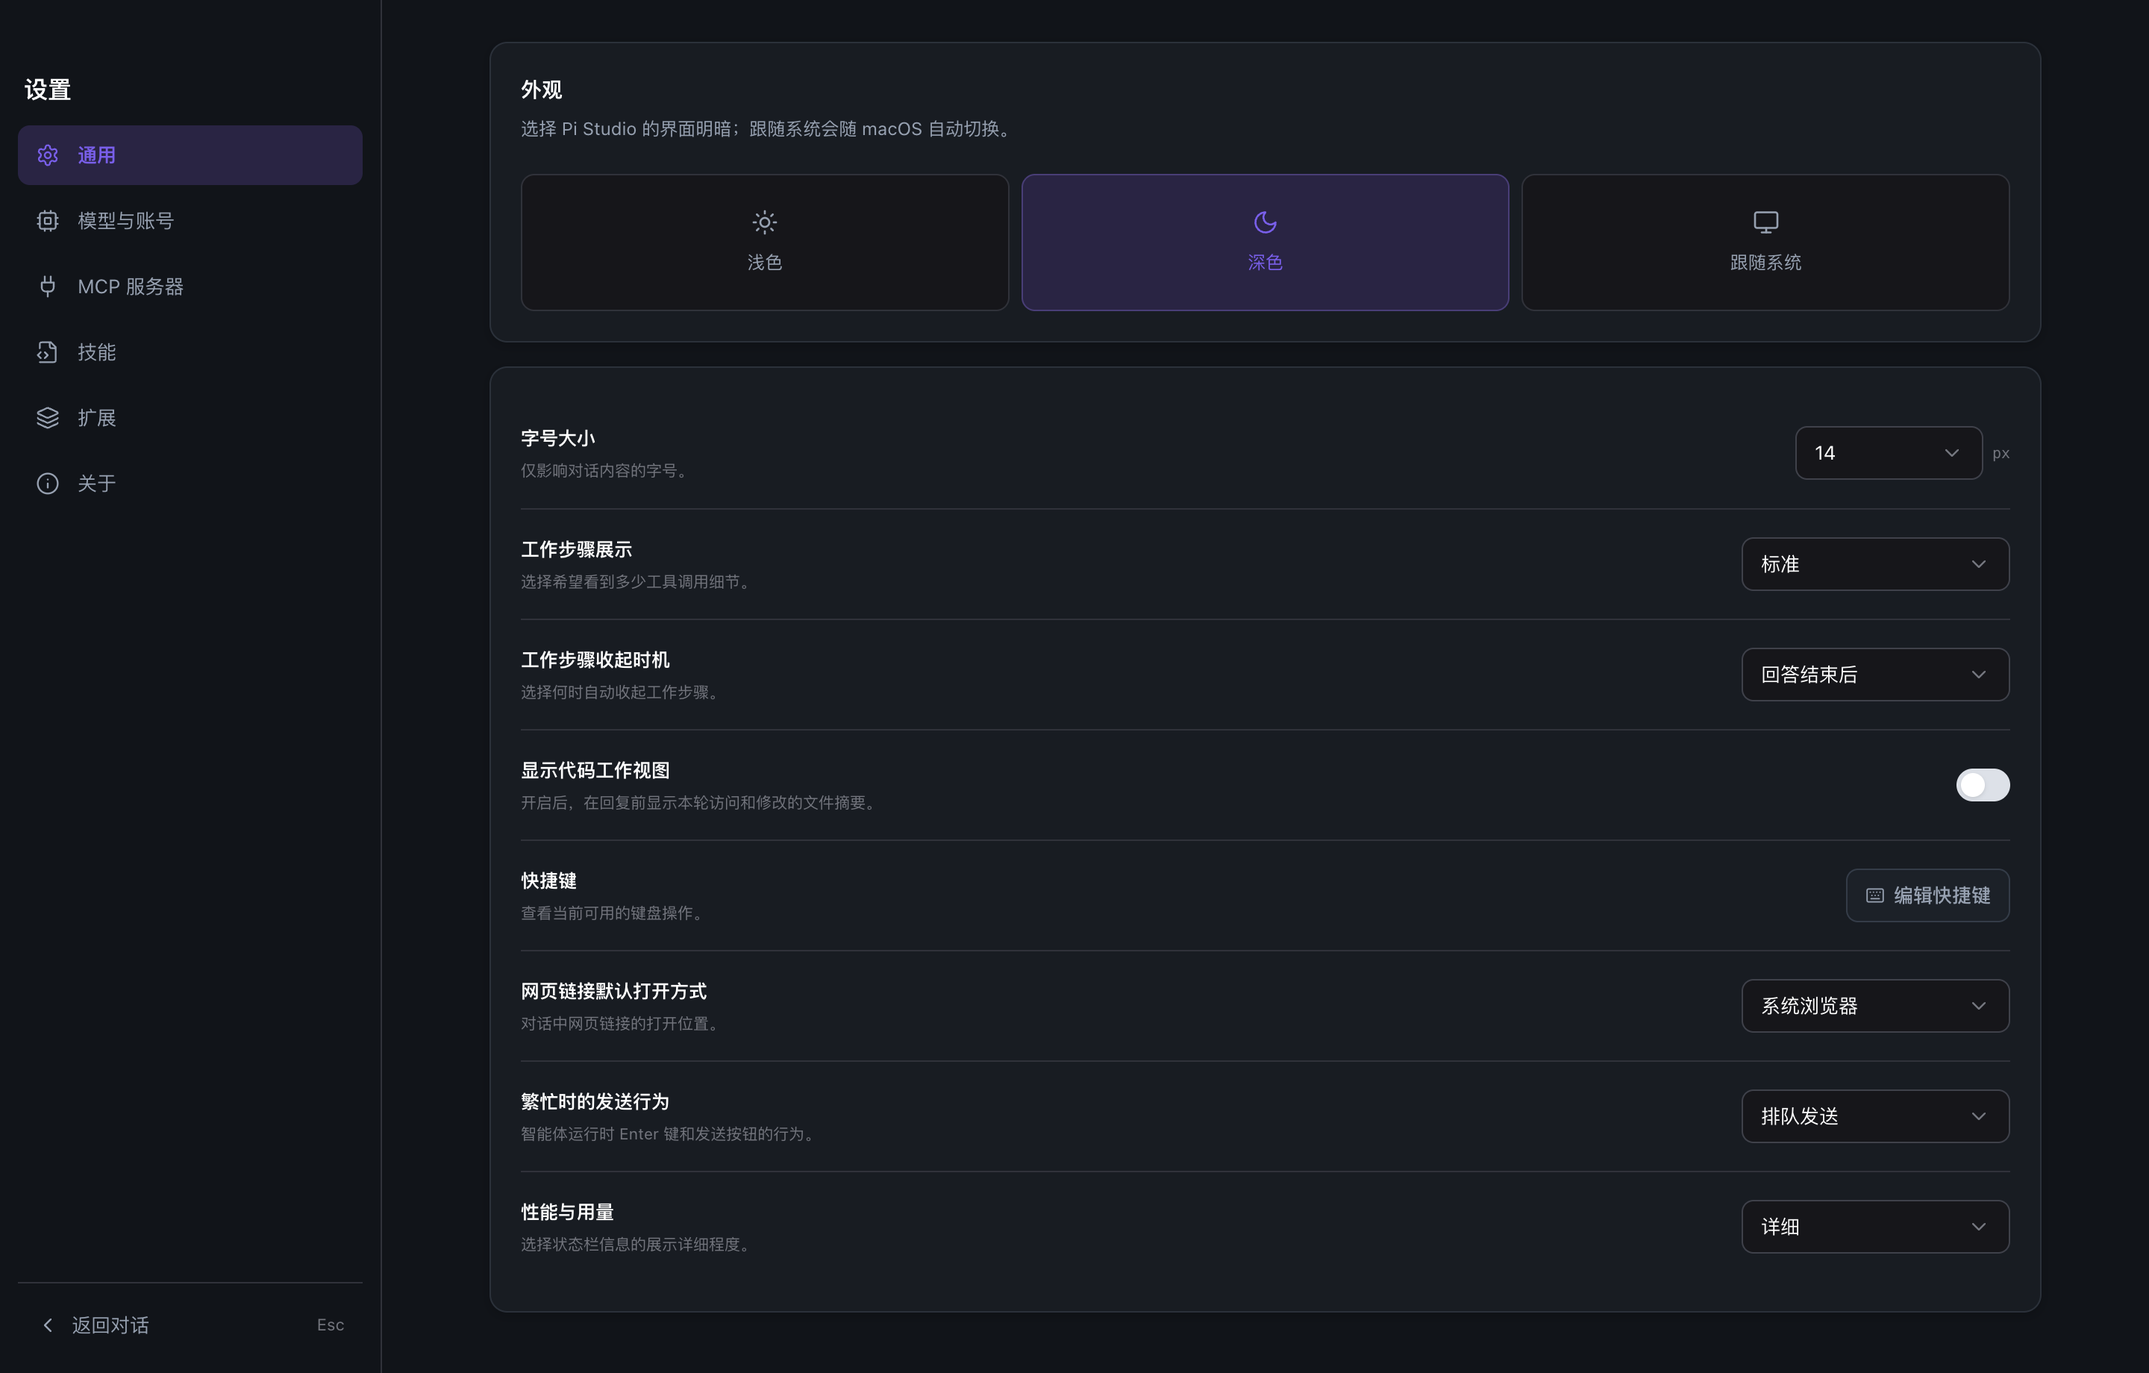
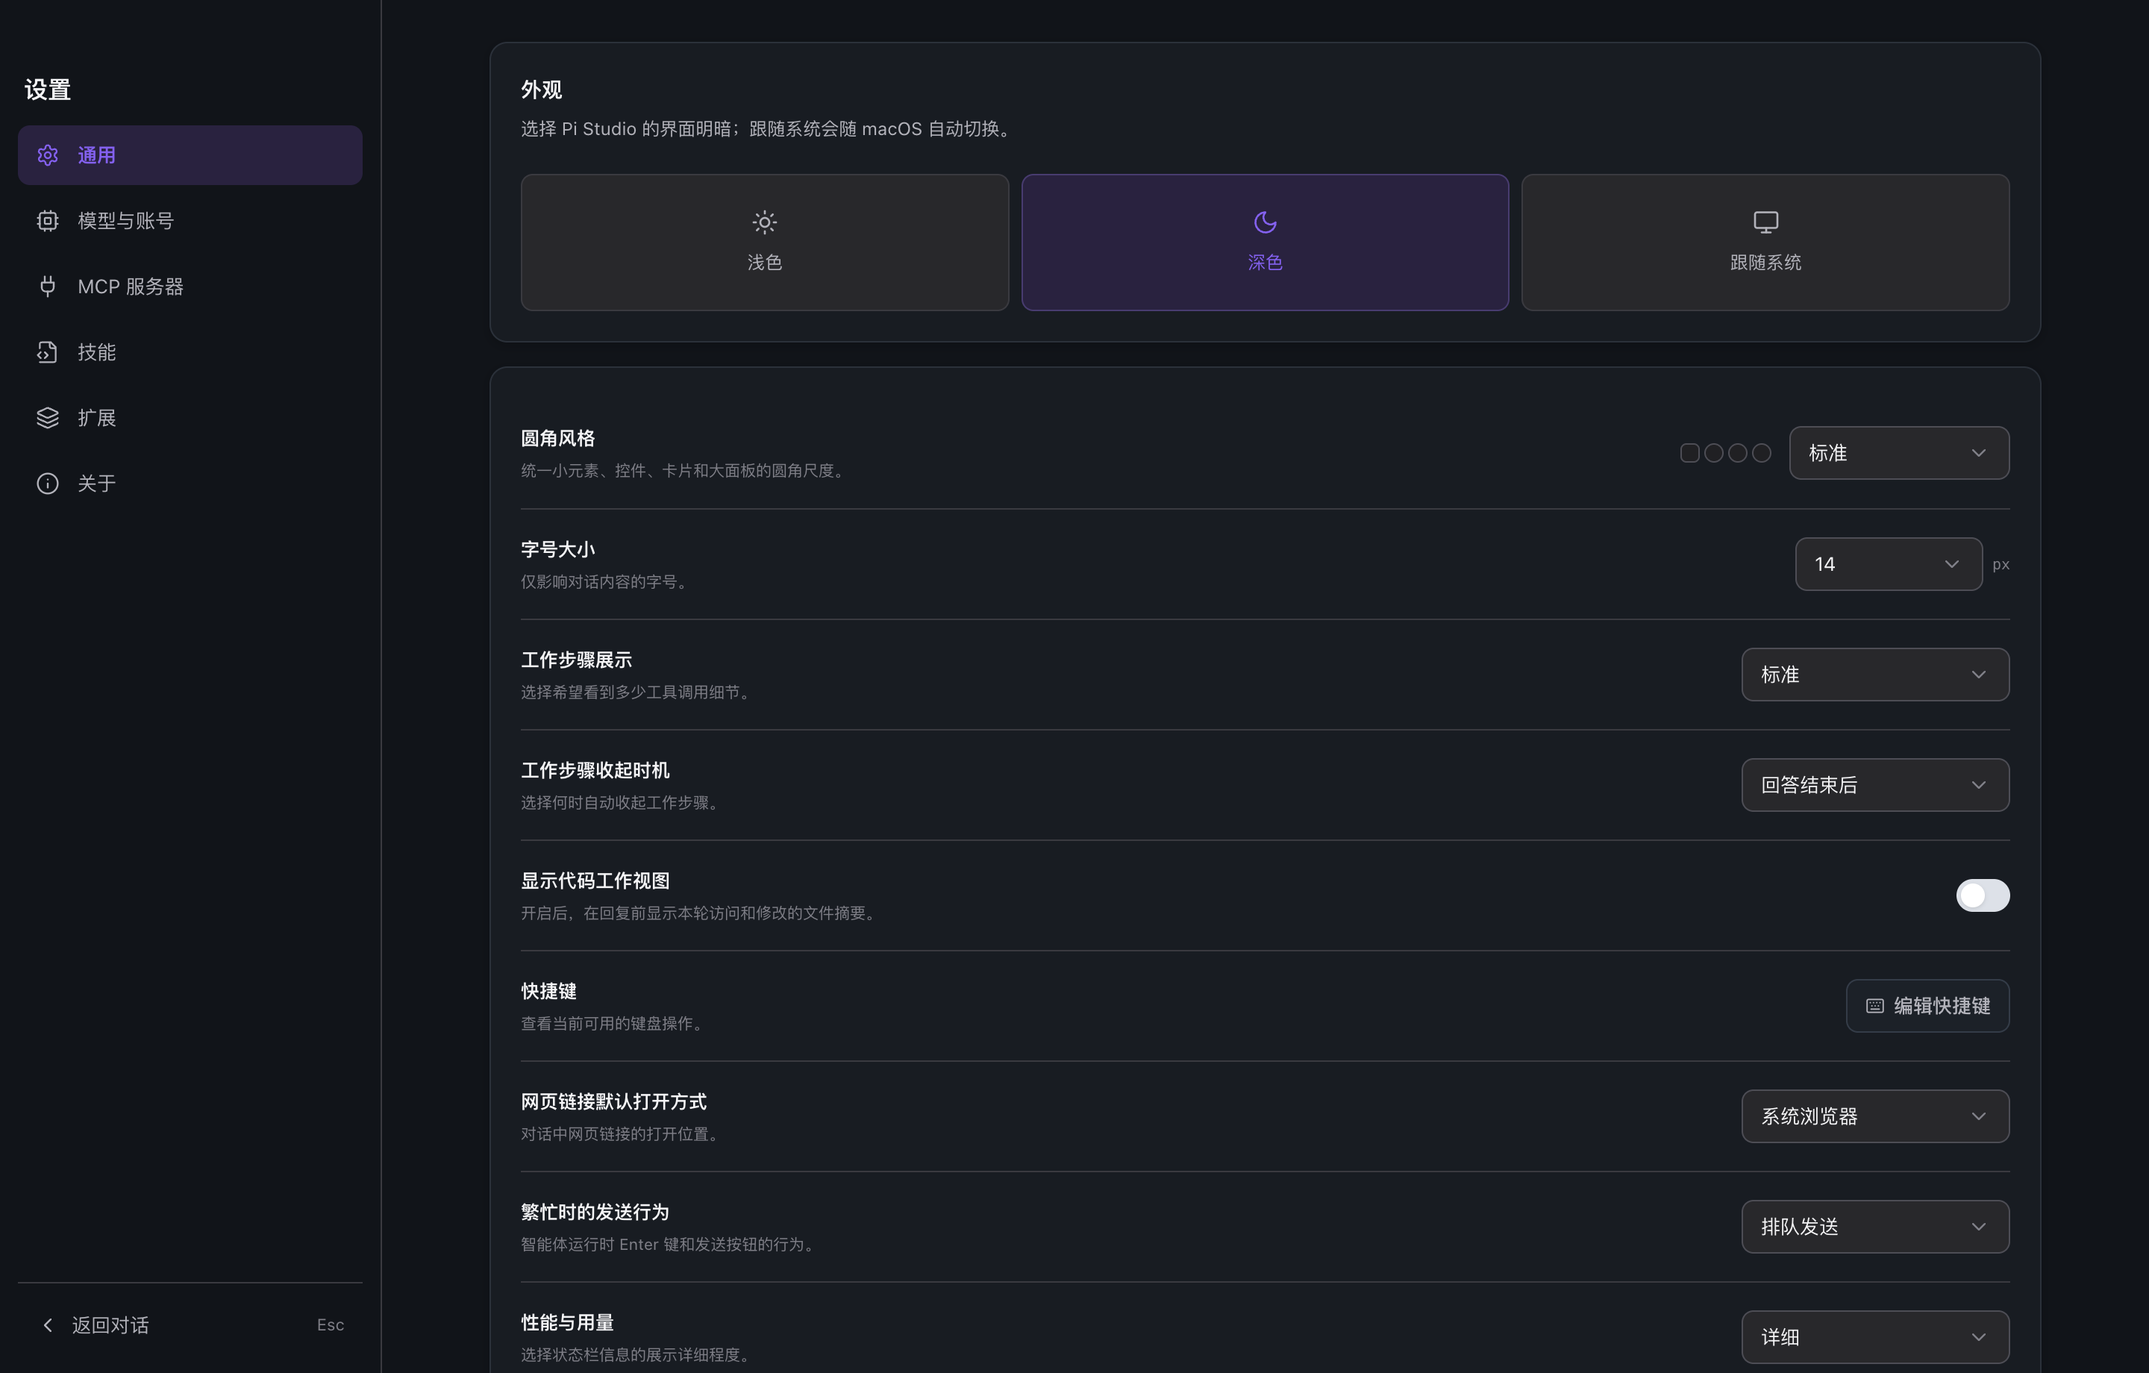
style(theme): 应用给定的五色浅色与深色配色

diff --git a/web/src/app.css b/web/src/app.css
@@ -1785,3 +1785,212 @@ body, .main { background: var(--surface); }
 .radius-preview i:nth-child(4) { border-radius: var(--radius-panel); }
 .radius-control .pi-select { width: 148px; flex: 0 0 148px; }
 @media (max-width: 900px) { .radius-preview { display: none; } .radius-control .pi-select { width: 130px; flex-basis: 130px; } }
+
+/* Palette v3: exact five-color systems supplied for light and dark. */
+:root {
+  --color-primary: #000000;
+  --color-dark: #191919;
+  --color-surface: #f7f6f2;
+  --color-accent: #eb5757;
+  --color-highlight: #ffffff;
+
+  --bg: var(--color-surface);
+  --surface: var(--color-highlight);
+  --surface-soft: #f2f0ea;
+  --surface-hover: #ebe8e0;
+  --surface-active: #e3dfd5;
+  --sidebar-bg: var(--color-surface);
+  --text: #191919;
+  --muted: #5e5b56;
+  --faint: #8a867f;
+  --border: #e5e1d8;
+  --border-strong: #d2cec4;
+  --primary: var(--color-primary);
+  --accent: var(--color-accent);
+  --accent-hover: #d94444;
+  --accent-soft: #fdeaea;
+  --accent-border: #f2c7c7;
+  --highlight: var(--color-highlight);
+  --link: var(--color-accent);
+  --button-bg: var(--color-primary);
+  --button-hover: #191919;
+  --on-button: #ffffff;
+  --on-accent: #ffffff;
+  --focus-color: var(--color-accent);
+  --live: var(--color-accent);
+  --thinking: #191919;
+  --thinking-soft: #f2f0ea;
+  --thinking-border: #e2ded4;
+  --success: #191919;
+  --success-soft: #efeee9;
+  --tertiary: #191919;
+  --error: var(--color-accent);
+  --error-soft: #fdeaea;
+  --secondary: #72757e;
+  --focus-ring: 0 0 0 3px rgb(235 87 87 / 16%);
+  --shadow-card: 0 2px 8px rgb(25 25 25 / 5%);
+  --shadow-popover: 0 14px 42px rgb(25 25 25 / 14%), 0 2px 8px rgb(25 25 25 / 5%);
+}
+:root[data-theme="dark"] {
+  --color-primary: #ff6363;
+  --color-dark: #161618;
+  --color-surface: #28282b;
+  --color-accent: #8b5cf6;
+  --color-highlight: #33d6ff;
+
+  --bg: var(--color-dark);
+  --surface: var(--color-surface);
+  --surface-soft: #202023;
+  --surface-hover: #333338;
+  --surface-active: #3c3c42;
+  --sidebar-bg: var(--color-dark);
+  --text: #f5f5f7;
+  --muted: #b3b3bb;
+  --faint: #7f7f88;
+  --border: #3a3a40;
+  --border-strong: #4d4d55;
+  --primary: var(--color-primary);
+  --accent: var(--color-accent);
+  --accent-hover: #9d75f8;
+  --accent-soft: #2a2140;
+  --accent-border: #4b3a72;
+  --highlight: var(--color-highlight);
+  --link: var(--color-highlight);
+  --button-bg: var(--color-primary);
+  --button-hover: #ff7f7f;
+  --on-button: #161618;
+  --on-accent: #ffffff;
+  --focus-color: var(--color-highlight);
+  --live: var(--color-highlight);
+  --thinking: var(--color-accent);
+  --thinking-soft: #2a2140;
+  --thinking-border: #4b3a72;
+  --success: var(--color-highlight);
+  --success-soft: #172a2f;
+  --tertiary: var(--color-highlight);
+  --error: var(--color-primary);
+  --error-soft: #2e1b1d;
+  --secondary: #72757e;
+  --focus-ring: 0 0 0 3px rgb(51 214 255 / 20%);
+  --shadow-card: 0 2px 8px rgb(0 0 0 / 22%);
+  --shadow-popover: 0 14px 44px rgb(0 0 0 / 42%), 0 2px 8px rgb(0 0 0 / 25%);
+}
+.brand-name { color: var(--color-primary); }
+body, .main { background: var(--surface); }
+.sidebar, .settings-nav { background: var(--sidebar-bg); }
+.settings-overlay, .settings-content { background: var(--bg); }
+.file-panel, .file-code, .line-number, .panel-tabbar { background: var(--surface); }
+.model-popover, .detail-dialog, .settings-dialog, .status-panel-dialog, .composer-picker { background: var(--surface); }
+.new-chat { background: var(--surface); border-color: var(--border-strong); }
+.new-chat:hover { border-color: var(--accent-border); background: var(--accent-soft); color: var(--accent); }
+.nav-row.is-active, .settings-nav-row.is-active { background: var(--accent-soft); color: var(--accent); }
+.nav-row.is-active > svg, .settings-nav-row.is-active > svg { color: var(--accent); }
+.send-button, .settings-save { background: var(--button-bg); color: var(--on-button); }
+.send-button:hover:not(:disabled), .settings-save:hover:not(:disabled) { background: var(--button-hover); color: var(--on-button); }
+.send-button:disabled { background: var(--surface-active); color: var(--muted); }
+.dialog-footer .settings-save { background: var(--button-bg); border-color: var(--button-bg); color: var(--on-button); }
+.dialog-footer .settings-save:hover:not(:disabled) { background: var(--button-hover); border-color: var(--button-hover); color: var(--on-button); }
+.composer:focus-within { border-color: var(--focus-color); box-shadow: var(--focus-ring), 0 4px 20px rgb(25 25 25 / 5%); }
+.chat-loading-line { background: linear-gradient(90deg, transparent, var(--live), transparent); }
+.panel-tab.is-active { background: var(--accent-soft); color: var(--accent); }
+.model-card.is-active { border-color: var(--accent-border); background: var(--surface); box-shadow: inset 3px 0 0 var(--accent), 0 4px 16px rgb(25 25 25 / 6%); }
+.theme-choice.is-active { border-color: var(--accent-border); background: var(--accent-soft); color: var(--accent); }
+.state-dot, .status i { background: var(--success); }
+.state-dot.is-busy { background: var(--live); }
+.assistant-orb { background: var(--color-primary); color: #ffffff; box-shadow: 0 3px 10px rgb(25 25 25 / 18%), 0 0 0 1px rgb(255 255 255 / 8%) inset; }
+.assistant-turn.is-live .assistant-orb { background: var(--color-primary); color: var(--on-button); box-shadow: 0 0 0 5px color-mix(in srgb, var(--live) 12%, transparent), 0 3px 12px rgb(25 25 25 / 20%); }
+.assistant-turn.is-live .assistant-turn-status { color: var(--live); }
+.assistant-turn.is-live .assistant-turn-status::before { background: var(--live); box-shadow: 0 0 0 3px color-mix(in srgb, var(--live) 15%, transparent); }
+.assistant-turn.is-live .assistant-orb::after { border-color: color-mix(in srgb, var(--live) 30%, transparent); }
+:root[data-theme="dark"] .assistant-orb { background: var(--color-primary); color: #161618; }
+:root[data-theme="dark"] .assistant-turn.is-live .assistant-orb { background: var(--color-primary); color: #161618; }
+:root[data-theme="dark"] .assistant-turn.is-live .assistant-turn-status::before { box-shadow: 0 0 0 3px rgb(51 214 255 / 18%); }
+.user-bubble { border-color: var(--accent-border); background: linear-gradient(135deg, #ffffff, #fdf0f0); box-shadow: none; }
+:root[data-theme="dark"] .user-bubble { border-color: var(--accent-border); background: linear-gradient(135deg, #28282b, #241d36); }
+.markdown a { color: var(--link); text-decoration-color: color-mix(in srgb, var(--link) 45%, transparent); }
+.markdown blockquote { border-left-color: var(--accent); background: linear-gradient(90deg, var(--accent-soft), transparent); }
+.markdown pre { border-color: var(--border); background: var(--surface-soft); }
+.markdown code { background: var(--surface-soft); }
+.markdown .hljs-keyword, .markdown .hljs-selector-tag, .markdown .hljs-built_in,
+.markdown .hljs-title, .markdown .hljs-function, .markdown .hljs-variable,
+.markdown .hljs-params { color: var(--color-primary); }
+.markdown .hljs-string, .markdown .hljs-attr, .markdown .hljs-template-variable,
+.markdown .hljs-name, .markdown .hljs-addition { color: var(--accent); }
+.markdown .hljs-number, .markdown .hljs-literal, .markdown .hljs-type { color: var(--color-dark); }
+.markdown .hljs-comment, .markdown .hljs-quote { color: var(--faint); }
+.assistant-response .markdown h1, .assistant-response .markdown h2 { color: var(--text); }
+.assistant-response .markdown pre, .assistant-response .markdown code { background: var(--surface-soft); border-color: var(--border); }
+.thinking-symbol, .activity-node.is-thinking, .thinking-block summary { color: var(--thinking); background: var(--thinking-soft); border-color: var(--thinking-border); }
+.activity-node.is-thinking { box-shadow: 0 0 0 1px var(--thinking-border); }
+.activity-thinking-label { color: var(--thinking); }
+.activity-thinking-body { border-left-color: var(--thinking-border); background: var(--thinking-soft); }
+.activity-thinking-body .markdown, .thinking-content .markdown { color: var(--muted); }
+.activity-node.tone-shell { color: var(--success); background: var(--success-soft); box-shadow: 0 0 0 1px var(--border-strong); }
+.activity-node.tone-read, .activity-node.tone-search { color: var(--secondary); background: var(--surface-soft); box-shadow: 0 0 0 1px var(--border-strong); }
+.activity-node.tone-edit, .activity-node.tone-tool { color: var(--thinking); background: var(--thinking-soft); box-shadow: 0 0 0 1px var(--thinking-border); }
+.activity-tool { border-color: var(--border); background: var(--surface); }
+.activity-tool:hover { border-color: var(--accent-border); background: var(--surface); }
+.activity-tool-status, .activity-tool.is-done .activity-tool-status { color: var(--success); }
+.activity-tool.is-running .activity-tool-status { color: var(--live); background: var(--accent-soft); }
+.activity-tool.is-error .activity-tool-status { color: var(--error); background: var(--error-soft); }
+.activity-tool-code { background: var(--surface-soft); border-color: var(--border); }
+.activity-tool-code.is-error { color: var(--error); background: var(--error-soft); }
+.activity-pulse i { background: var(--border-strong); }
+.activity-pulse i.is-thinking, .activity-pulse i.tone-edit, .activity-pulse i.tone-tool { background: var(--thinking); }
+.activity-pulse i.tone-shell { background: var(--success); }
+.activity-pulse i.tone-read, .activity-pulse i.tone-search { background: var(--secondary); }
+.activity-pulse i.is-note { background: var(--border-strong); }
+.activity-summary, .activity-title { color: var(--muted); }
+.attachment-icon, .attachment-icon.is-image, .attachment-icon.is-code, .attachment-icon.is-archive, .attachment-icon.is-sheet, .attachment-icon.is-doc, .attachment-icon.is-generic { color: var(--primary); background: var(--surface-soft); }
+.attachment-kind, .attachment-kind.is-code, .attachment-kind.is-archive, .attachment-kind.is-sheet, .attachment-kind.is-doc { color: var(--muted); background: var(--surface-soft); }
+.attachment-card, .composer-attachment { background: var(--surface); border-color: var(--border); }
+.composer-attachment > button { background: var(--surface); border-color: var(--border); color: var(--muted); }
+.assistant-error, .error-card { border-color: var(--error); background: var(--error-soft); box-shadow: none; }
+.assistant-error::before, .error-card::before { background: var(--error); }
+.assistant-error-mark { color: var(--error); background: var(--surface); box-shadow: 0 0 0 1px var(--error); }
+.assistant-error-kicker, .assistant-error-code { color: var(--error); border-color: var(--border); }
+.assistant-error-message { border-color: var(--border); background: var(--surface); color: var(--muted); }
+.assistant-error-foot { color: var(--muted); }
+.outline-line { background: var(--border-strong); }
+.outline-tick:hover .outline-line { background: var(--accent); }
+.outline-tick.is-active .outline-line { background: var(--accent); }
+.outline-preview { border-color: var(--border); background: var(--surface); }
+.outline-preview::after { border-color: var(--border); background: var(--surface); }
+.outline-preview-role::before { background: var(--accent); }
+.extension-footer-line > svg:first-child { color: var(--link); }
+::selection { background: var(--accent-soft); }
+:root[data-theme="dark"] ::selection { background: #3a2a61; }
+:root[data-theme="dark"] .nav-row.is-active, :root[data-theme="dark"] .settings-nav-row.is-active { background: var(--accent-soft); color: var(--accent); }
+:root[data-theme="dark"] .model-card.is-active { background: var(--surface-soft); box-shadow: inset 3px 0 0 var(--accent); }
+:root[data-theme="dark"] .assistant-error, :root[data-theme="dark"] .error-card { background: var(--error-soft); border-color: var(--error); }
+:root[data-theme="dark"] .assistant-error-message { background: var(--surface); border-color: var(--border); color: var(--muted); }
+:root[data-theme="dark"] .composer { background: var(--surface); border-color: var(--border-strong); }
+:root[data-theme="dark"] .markdown pre, :root[data-theme="dark"] .activity-tool-code { background: var(--surface-soft); border-color: var(--border); }
+:root[data-theme="dark"] .markdown code { background: var(--surface-soft); }
+:root[data-theme="dark"] .thinking-block summary, :root[data-theme="dark"] .activity-tool { background: var(--surface); border-color: var(--border); }
+:root[data-theme="dark"] .activity-drawer > summary { background: var(--surface-soft); border-color: var(--border); }
+:root[data-theme="dark"] .file-code, :root[data-theme="dark"] .line-number { background: var(--surface); }
+.todo-dock { background: var(--surface); border-color: var(--border); box-shadow: 0 2px 8px rgb(25 25 25 / 4%); }
+.todo-dock-head:hover { background: var(--surface-soft); }
+.todo-dock-title { color: var(--accent); }
+.todo-dock-meter i { background: var(--accent); }
+.todo-row.is-active { background: var(--accent-soft); box-shadow: 0 0 0 1px var(--accent-border); color: var(--text); }
+.todo-row.is-active .todo-row-icon { color: var(--accent); }
+.todo-row.is-complete .todo-row-icon { color: var(--success); }
+.todo-row.is-complete .todo-row-subject { color: var(--muted); }
+.todo-dock.is-live .todo-dock-title svg { color: var(--accent); }
+.queued-panel-title { color: var(--accent); }
+.queued-panel-title svg { color: var(--accent); }
+.queued-send-all { color: var(--accent); }
+.queued-actions button:hover { color: var(--accent); background: var(--accent-soft); }
+.queued-actions button:first-child:hover { color: var(--accent); }
+.queued-item { border-color: var(--border); background: var(--surface); }
+.queued-send-all:hover { color: var(--accent-hover); }
+.extension-footer-line { color: var(--muted); }
+.extension-footer-line:hover { background: var(--surface-soft); color: var(--link); }
+.extension-footer-line > svg:first-child { color: var(--link); }
+.status-panel-body pre { background: var(--surface-soft); border-color: var(--border); }
+
+body { --dsh-scrollbar-thumb: #d2cec4; --dsh-scrollbar-thumb-hover: #b9b4a8; }
+:root[data-theme="dark"] body { --dsh-scrollbar-thumb: #3a3a40; --dsh-scrollbar-thumb-hover: #4d4d55; }
+.markdown .hljs-number, .markdown .hljs-literal, .markdown .hljs-type { color: var(--link); }

diff --git a/web/src/styles/tokens.css b/web/src/styles/tokens.css
@@ -1,29 +1,34 @@
 /* Shared dimensions and surfaces for the whole desktop workspace. */
 :root {
-  --bg: #d1d1e9;
-  --surface: #ffffff;
-  --surface-soft: #f1eefb;
-  --surface-hover: #e7e2f7;
-  --surface-active: #ddd5f5;
-  --sidebar-bg: #d1d1e9;
-  --text: #2b2c34;
-  --muted: #5b5b6c;
-  --faint: #7a7a90;
-  --border: #c8c2e4;
-  --border-strong: #b3aad4;
-  --accent: #6246ea;
-  --accent-hover: #4f35d4;
-  --accent-soft: #e9e5ff;
-  --accent-border: #cbc0f7;
+  --color-primary: #000000;
+  --color-dark: #191919;
+  --color-surface: #f7f6f2;
+  --color-accent: #eb5757;
+  --color-highlight: #ffffff;
+  --bg: var(--color-surface);
+  --surface: var(--color-highlight);
+  --surface-soft: #f2f0ea;
+  --surface-hover: #ebe8e0;
+  --surface-active: #e3dfd5;
+  --sidebar-bg: var(--color-surface);
+  --text: var(--color-dark);
+  --muted: #5e5b56;
+  --faint: #8a867f;
+  --border: #e5e1d8;
+  --border-strong: #d2cec4;
+  --accent: var(--color-accent);
+  --accent-hover: #d94444;
+  --accent-soft: #fdeaea;
+  --accent-border: #f2c7c7;
   --on-accent: #ffffff;
   --secondary: #72757e;
-  --tertiary: #2cb67d;
-  --highlight: #6246ea;
-  --newsletter: #e45858;
-  --success: #2cb67d;
-  --success-soft: #e1f7ee;
-  --error: #e45858;
-  --error-soft: #fdecec;
+  --tertiary: #191919;
+  --highlight: var(--color-highlight);
+  --newsletter: var(--color-accent);
+  --success: #191919;
+  --success-soft: #efeee9;
+  --error: var(--color-accent);
+  --error-soft: #fdeaea;
   --space-1: 4px;
   --space-2: 8px;
   --space-3: 12px;
@@ -53,9 +58,9 @@
   --settings-content: 1040px;
   --header-height: 48px;
   --toolbar-height: 36px;
-  --shadow-card: 0 2px 8px rgb(43 44 52 / 5%);
-  --shadow-popover: 0 14px 42px rgb(43 44 52 / 14%), 0 2px 8px rgb(43 44 52 / 5%);
-  --focus-ring: 0 0 0 3px rgb(98 70 234 / 15%);
+  --shadow-card: 0 2px 8px rgb(25 25 25 / 5%);
+  --shadow-popover: 0 14px 42px rgb(25 25 25 / 14%), 0 2px 8px rgb(25 25 25 / 5%);
+  --focus-ring: 0 0 0 3px rgb(235 87 87 / 16%);
   --transition: 160ms ease;
   --font: -apple-system, BlinkMacSystemFont, "SF Pro Text", "Segoe UI", "PingFang SC", "Hiragino Sans GB", "Microsoft YaHei", sans-serif;
   --display-font: "Songti SC", "STSong", "Noto Serif SC", "Source Han Serif SC", "Times New Roman", serif;
